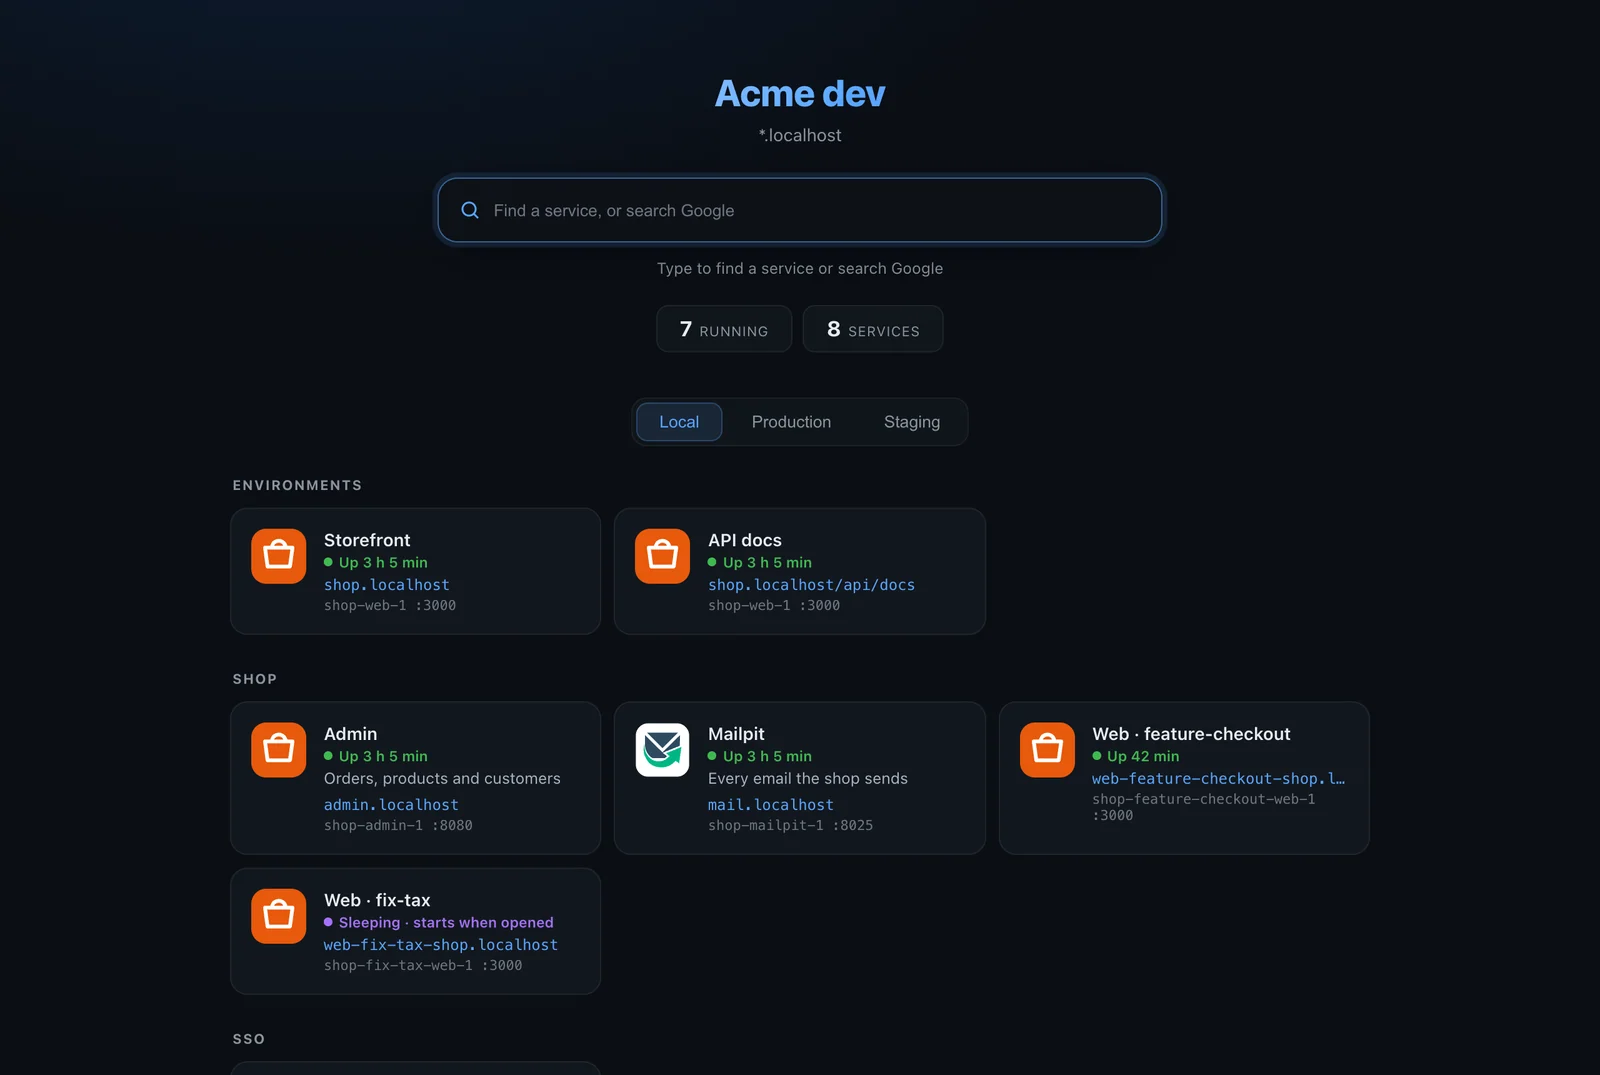
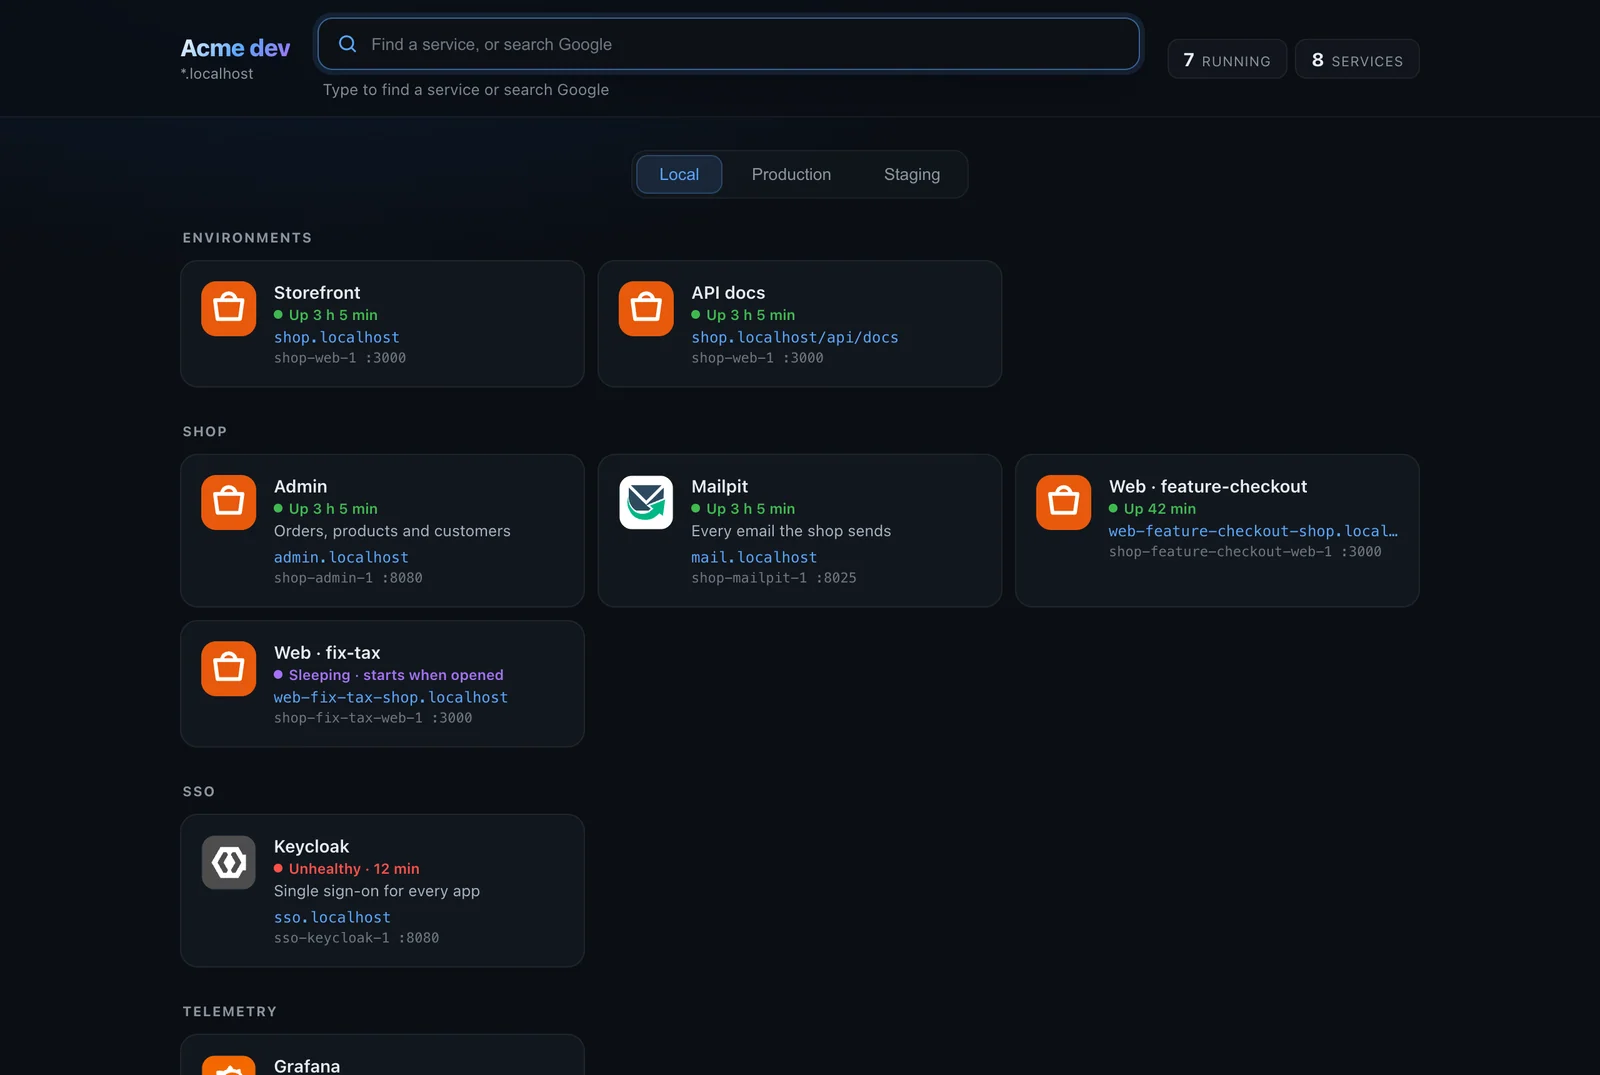
Start page bar, quieter container alerts, clearer app cards; video tweaks
App:
- The landing page puts its title, search and counts in one sticky bar at
  the top, so the cards start right below
- "Container exited" alerts only for crashes and out-of-memory, not for
  stops or Orca's own gateway restarting
- Dashboard app cards: addresses open in the browser (↗), the card opens
  the app in Orca (Open →)

Video:
- The cold open cuts as its line names each moment, four cuts
- One mention of the shell; no "the app keeps up"
- Captions break at sentences; the app's page never stays scrolled

diff --git a/gui/src/components/AppsOverview.tsx b/gui/src/components/AppsOverview.tsx
@@ -168,12 +168,13 @@ export default function AppsOverview(props: {
     const stopped = () => s.status === "Stopped" || s.status === "Empty";
     return (
       <div class="app-card" classList={{ stopped: stopped(), "is-hidden": hidden.has(s.name) }}
-        onClick={() => props.onNavigate?.(`stack:${s.name}`)} title={a.sub ? `${a.sub} · ${s.name}` : s.name}>
+        onClick={() => props.onNavigate?.(`stack:${s.name}`)} title={`${a.sub ? `${a.sub} · ` : ""}Open ${s.name} in Orca: its containers, logs and settings`}>
         <div class="app-card-head">
           <AppIcon src={iconSrc(a.icon) || stackIcon(s, props.routes)} name={a.title} size={26} />
           <b>{a.title}</b>
           <span class={`app-dot ${s.status.toLowerCase()}`} />
           <span class="app-card-count">{running(s)}/{s.services.length}</span>
+          <span class="app-card-open">Open →</span>
           <span class="app-card-actions">
             <button class="app-card-act" classList={{ on: pinned.has(s.name) }}
               title={pinned.has(s.name) ? "Unpin" : "Pin to the top"}
@@ -192,8 +193,8 @@ export default function AppsOverview(props: {
           }>
             <For each={urls().slice(0, 2)} fallback={<span class="app-card-none">No HTTPS route yet</span>}>
               {(u) => (
-                <button class="app-url" title={`Open ${u.url}`} onClick={(e) => { e.stopPropagation(); void openUrl(u.url); }}>
-                  {u.url.replace(/^https:\/\//, "")}
+                <button class="app-url" title={`Open ${u.url} in your browser`} onClick={(e) => { e.stopPropagation(); void openUrl(u.url); }}>
+                  {u.url.replace(/^https:\/\//, "")} ↗
                 </button>
               )}
             </For>

diff --git a/gui/src/App.tsx b/gui/src/App.tsx
@@ -439,7 +439,17 @@ export default function App() {
       const exitCode = typeof exitCodeRaw === "number" ? exitCodeRaw : Number.parseInt(String(exitCodeRaw ?? ""), 10);
       const oomKilled = data.oom_killed === true || attrs.oomKilled === "true";
 
-      if (eventType === "container.died" || eventType === "die" || eventType === "ContainerDied") {
+      // Docker says "died" for every stop. Speak up only when something went
+      // wrong: out of memory, or a crash, not a stop (0, or 143/137 from
+      // SIGTERM/SIGKILL) and never Orca's own containers (the gateway
+      // restarts when its domain or certificate changes).
+      const ownContainer = name.startsWith("orca-") || attrs["orca.managed"] === "true";
+      const stopped = exitCode === 0 || exitCode === 143 || exitCode === 137;
+      if (
+        (eventType === "container.died" || eventType === "die" || eventType === "ContainerDied") &&
+        !ownContainer &&
+        (oomKilled || !stopped)
+      ) {
         const title = oomKilled
           ? `Container '${containerLabel}' ran out of memory`
           : `Container '${containerLabel}' exited`;

diff --git a/docs/404.html b/docs/404.html
@@ -18,9 +18,9 @@
 <link rel="icon" href="/assets/img/favicon.png" type="image/png">
 <link rel="apple-touch-icon" href="/assets/img/logo-tile.png">
 <link rel="preload" href="/assets/fonts/inter-latin-wght-normal.woff2" as="font" type="font/woff2" crossorigin>
-<link rel="stylesheet" href="/assets/site.css?v=mvkx5mmz">
+<link rel="stylesheet" href="/assets/site.css?v=mvl1cspt">
 <script>(function(){try{var t=localStorage.getItem("theme");if(!t)t=matchMedia("(prefers-color-scheme: light)").matches?"light":"dark";document.documentElement.dataset.theme=t}catch(e){document.documentElement.dataset.theme="dark"}})()</script>
-<script src="/assets/site.js?v=mvkx5mmz" defer></script>
+<script src="/assets/site.js?v=mvl1cspt" defer></script>
 </head>
 <body>
 <a class="skip" href="#main">Skip to content</a>

diff --git a/docs/changelog/index.html b/docs/changelog/index.html
@@ -18,9 +18,9 @@
 <link rel="icon" href="/assets/img/favicon.png" type="image/png">
 <link rel="apple-touch-icon" href="/assets/img/logo-tile.png">
 <link rel="preload" href="/assets/fonts/inter-latin-wght-normal.woff2" as="font" type="font/woff2" crossorigin>
-<link rel="stylesheet" href="/assets/site.css?v=mvkx5mmz">
+<link rel="stylesheet" href="/assets/site.css?v=mvl1cspt">
 <script>(function(){try{var t=localStorage.getItem("theme");if(!t)t=matchMedia("(prefers-color-scheme: light)").matches?"light":"dark";document.documentElement.dataset.theme=t}catch(e){document.documentElement.dataset.theme="dark"}})()</script>
-<script src="/assets/site.js?v=mvkx5mmz" defer></script>
+<script src="/assets/site.js?v=mvl1cspt" defer></script>
 </head>
 <body>
 <a class="skip" href="#main">Skip to content</a>

diff --git a/docs/docs/agents/index.html b/docs/docs/agents/index.html
@@ -18,9 +18,9 @@
 <link rel="icon" href="/assets/img/favicon.png" type="image/png">
 <link rel="apple-touch-icon" href="/assets/img/logo-tile.png">
 <link rel="preload" href="/assets/fonts/inter-latin-wght-normal.woff2" as="font" type="font/woff2" crossorigin>
-<link rel="stylesheet" href="/assets/site.css?v=mvkx5mmz">
+<link rel="stylesheet" href="/assets/site.css?v=mvl1cspt">
 <script>(function(){try{var t=localStorage.getItem("theme");if(!t)t=matchMedia("(prefers-color-scheme: light)").matches?"light":"dark";document.documentElement.dataset.theme=t}catch(e){document.documentElement.dataset.theme="dark"}})()</script>
-<script src="/assets/site.js?v=mvkx5mmz" defer></script>
+<script src="/assets/site.js?v=mvl1cspt" defer></script>
 </head>
 <body>
 <a class="skip" href="#main">Skip to content</a>

diff --git a/docs/docs/ai-assistant/index.html b/docs/docs/ai-assistant/index.html
@@ -18,9 +18,9 @@
 <link rel="icon" href="/assets/img/favicon.png" type="image/png">
 <link rel="apple-touch-icon" href="/assets/img/logo-tile.png">
 <link rel="preload" href="/assets/fonts/inter-latin-wght-normal.woff2" as="font" type="font/woff2" crossorigin>
-<link rel="stylesheet" href="/assets/site.css?v=mvkx5mmz">
+<link rel="stylesheet" href="/assets/site.css?v=mvl1cspt">
 <script>(function(){try{var t=localStorage.getItem("theme");if(!t)t=matchMedia("(prefers-color-scheme: light)").matches?"light":"dark";document.documentElement.dataset.theme=t}catch(e){document.documentElement.dataset.theme="dark"}})()</script>
-<script src="/assets/site.js?v=mvkx5mmz" defer></script>
+<script src="/assets/site.js?v=mvl1cspt" defer></script>
 </head>
 <body>
 <a class="skip" href="#main">Skip to content</a>

diff --git a/docs/docs/api/index.html b/docs/docs/api/index.html
@@ -18,9 +18,9 @@
 <link rel="icon" href="/assets/img/favicon.png" type="image/png">
 <link rel="apple-touch-icon" href="/assets/img/logo-tile.png">
 <link rel="preload" href="/assets/fonts/inter-latin-wght-normal.woff2" as="font" type="font/woff2" crossorigin>
-<link rel="stylesheet" href="/assets/site.css?v=mvkx5mmz">
+<link rel="stylesheet" href="/assets/site.css?v=mvl1cspt">
 <script>(function(){try{var t=localStorage.getItem("theme");if(!t)t=matchMedia("(prefers-color-scheme: light)").matches?"light":"dark";document.documentElement.dataset.theme=t}catch(e){document.documentElement.dataset.theme="dark"}})()</script>
-<script src="/assets/site.js?v=mvkx5mmz" defer></script>
+<script src="/assets/site.js?v=mvl1cspt" defer></script>
 </head>
 <body>
 <a class="skip" href="#main">Skip to content</a>

diff --git a/docs/docs/auto-deploy/index.html b/docs/docs/auto-deploy/index.html
@@ -18,9 +18,9 @@
 <link rel="icon" href="/assets/img/favicon.png" type="image/png">
 <link rel="apple-touch-icon" href="/assets/img/logo-tile.png">
 <link rel="preload" href="/assets/fonts/inter-latin-wght-normal.woff2" as="font" type="font/woff2" crossorigin>
-<link rel="stylesheet" href="/assets/site.css?v=mvkx5mmz">
+<link rel="stylesheet" href="/assets/site.css?v=mvl1cspt">
 <script>(function(){try{var t=localStorage.getItem("theme");if(!t)t=matchMedia("(prefers-color-scheme: light)").matches?"light":"dark";document.documentElement.dataset.theme=t}catch(e){document.documentElement.dataset.theme="dark"}})()</script>
-<script src="/assets/site.js?v=mvkx5mmz" defer></script>
+<script src="/assets/site.js?v=mvl1cspt" defer></script>
 </head>
 <body>
 <a class="skip" href="#main">Skip to content</a>

diff --git a/docs/docs/cli/index.html b/docs/docs/cli/index.html
@@ -18,9 +18,9 @@
 <link rel="icon" href="/assets/img/favicon.png" type="image/png">
 <link rel="apple-touch-icon" href="/assets/img/logo-tile.png">
 <link rel="preload" href="/assets/fonts/inter-latin-wght-normal.woff2" as="font" type="font/woff2" crossorigin>
-<link rel="stylesheet" href="/assets/site.css?v=mvkx5mmz">
+<link rel="stylesheet" href="/assets/site.css?v=mvl1cspt">
 <script>(function(){try{var t=localStorage.getItem("theme");if(!t)t=matchMedia("(prefers-color-scheme: light)").matches?"light":"dark";document.documentElement.dataset.theme=t}catch(e){document.documentElement.dataset.theme="dark"}})()</script>
-<script src="/assets/site.js?v=mvkx5mmz" defer></script>
+<script src="/assets/site.js?v=mvl1cspt" defer></script>
 </head>
 <body>
 <a class="skip" href="#main">Skip to content</a>

diff --git a/docs/docs/containers/index.html b/docs/docs/containers/index.html
@@ -18,9 +18,9 @@
 <link rel="icon" href="/assets/img/favicon.png" type="image/png">
 <link rel="apple-touch-icon" href="/assets/img/logo-tile.png">
 <link rel="preload" href="/assets/fonts/inter-latin-wght-normal.woff2" as="font" type="font/woff2" crossorigin>
-<link rel="stylesheet" href="/assets/site.css?v=mvkx5mmz">
+<link rel="stylesheet" href="/assets/site.css?v=mvl1cspt">
 <script>(function(){try{var t=localStorage.getItem("theme");if(!t)t=matchMedia("(prefers-color-scheme: light)").matches?"light":"dark";document.documentElement.dataset.theme=t}catch(e){document.documentElement.dataset.theme="dark"}})()</script>
-<script src="/assets/site.js?v=mvkx5mmz" defer></script>
+<script src="/assets/site.js?v=mvl1cspt" defer></script>
 </head>
 <body>
 <a class="skip" href="#main">Skip to content</a>

diff --git a/docs/docs/gateway/index.html b/docs/docs/gateway/index.html
@@ -18,9 +18,9 @@
 <link rel="icon" href="/assets/img/favicon.png" type="image/png">
 <link rel="apple-touch-icon" href="/assets/img/logo-tile.png">
 <link rel="preload" href="/assets/fonts/inter-latin-wght-normal.woff2" as="font" type="font/woff2" crossorigin>
-<link rel="stylesheet" href="/assets/site.css?v=mvkx5mmz">
+<link rel="stylesheet" href="/assets/site.css?v=mvl1cspt">
 <script>(function(){try{var t=localStorage.getItem("theme");if(!t)t=matchMedia("(prefers-color-scheme: light)").matches?"light":"dark";document.documentElement.dataset.theme=t}catch(e){document.documentElement.dataset.theme="dark"}})()</script>
-<script src="/assets/site.js?v=mvkx5mmz" defer></script>
+<script src="/assets/site.js?v=mvl1cspt" defer></script>
 </head>
 <body>
 <a class="skip" href="#main">Skip to content</a>

diff --git a/docs/docs/images-and-builds/index.html b/docs/docs/images-and-builds/index.html
@@ -18,9 +18,9 @@
 <link rel="icon" href="/assets/img/favicon.png" type="image/png">
 <link rel="apple-touch-icon" href="/assets/img/logo-tile.png">
 <link rel="preload" href="/assets/fonts/inter-latin-wght-normal.woff2" as="font" type="font/woff2" crossorigin>
-<link rel="stylesheet" href="/assets/site.css?v=mvkx5mmz">
+<link rel="stylesheet" href="/assets/site.css?v=mvl1cspt">
 <script>(function(){try{var t=localStorage.getItem("theme");if(!t)t=matchMedia("(prefers-color-scheme: light)").matches?"light":"dark";document.documentElement.dataset.theme=t}catch(e){document.documentElement.dataset.theme="dark"}})()</script>
-<script src="/assets/site.js?v=mvkx5mmz" defer></script>
+<script src="/assets/site.js?v=mvl1cspt" defer></script>
 </head>
 <body>
 <a class="skip" href="#main">Skip to content</a>
